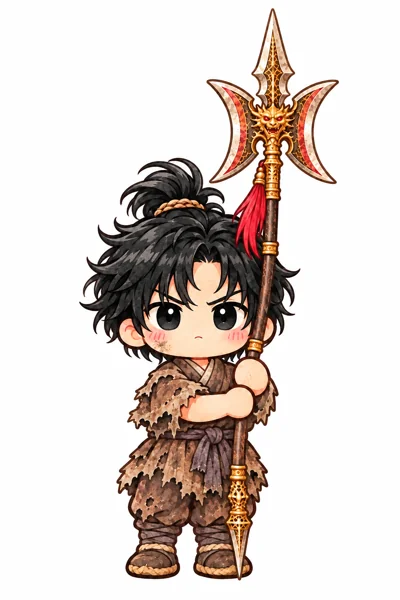
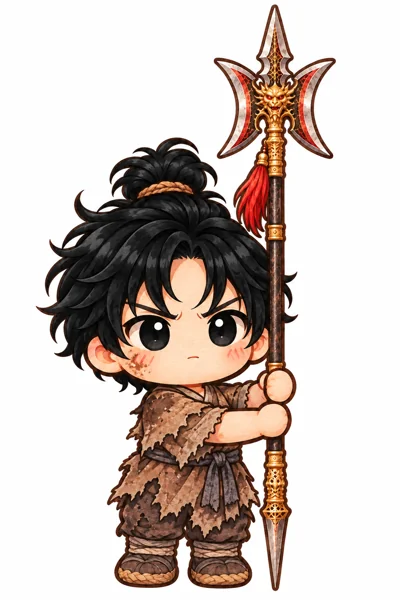
換十歲呂布的圖（戟桿改成筆直），加入袁尚、曹植、王子姬
舊圖的戟在手的位置折了約 7 度；新圖沿桿量四點，上下段差 0.5 度內。

diff --git a/README.md b/README.md
@@ -6,7 +6,7 @@
 
 網頁上可以勾想要的角色、挑台詞，最下面會整理成一段文字，複製貼到 Larch 回覆。
 
-## 目前的角色（42 個）
+## 目前的角色（45 個）
 
 | 角色 | 作品 | 古代職業 |
 |---|---|---|
@@ -52,6 +52,9 @@
 | 阿禾 | 唐詩小旅行 | 放牛的牧童 |
 | 小樂 | 唐詩小旅行 | 小書僮 |
 | 孟浩然 | 唐詩小旅行 | 田園詩人 |
+| 袁尚（甄夫人） | 洛泉．袁真跡 | 曹府的甄夫人 |
+| 曹植 | 洛泉．袁真跡 | 平原侯 |
+| 王子姬 | 王子姬 | 穿戰甲的小將軍 |
 
 ## 檔案
 
